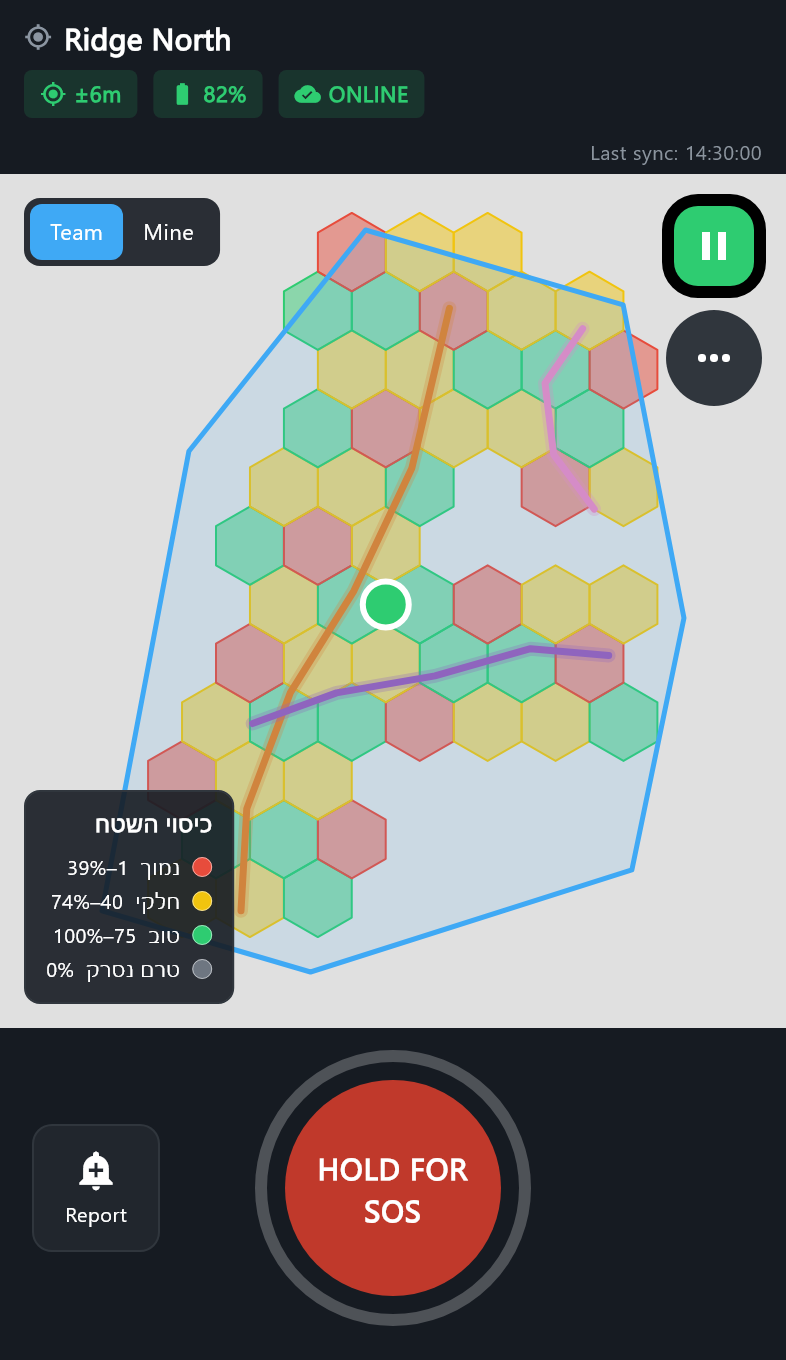
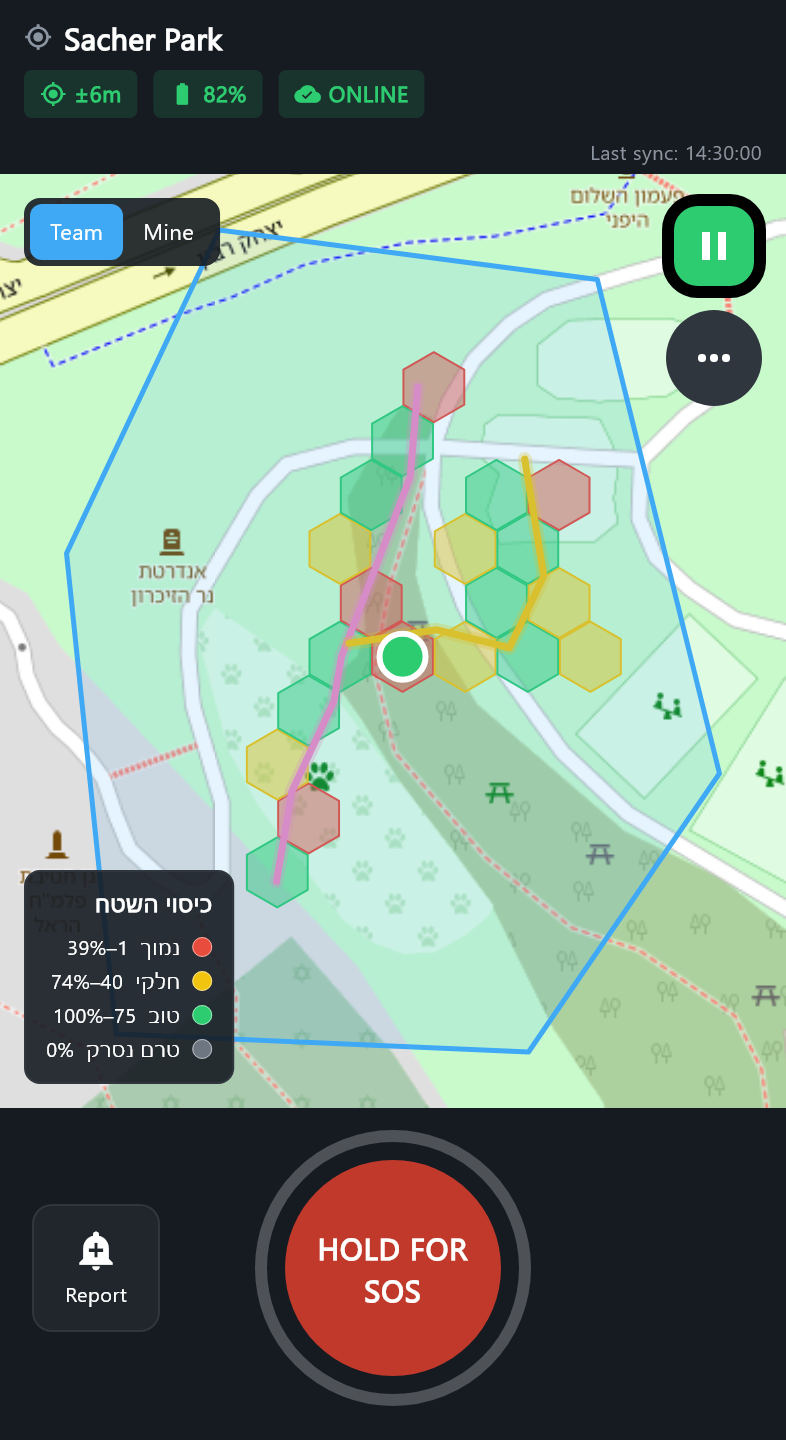
Show real OpenStreetMap tiles in field screenshots

diff --git a/README.md b/README.md
@@ -7,12 +7,12 @@ FindResQ brings field volunteers and search coordinators onto the same map. Volu
 ## In the field
 
 <p>
-  <img src="docs/screenshots/field-map.png" width="224" alt="FindResQ field map showing a sector boundary, team tracks, colored coverage cells, GPS accuracy, battery and sync status">
-  <img src="docs/screenshots/quick-report.png" width="224" alt="Quick report menu with options for subject found, medical, item found, hazard and no passage">
-  <img src="docs/screenshots/sos-active.png" width="224" alt="Field map after an SOS is accepted, showing SOS ACTIVE and the Manage button">
+  <a href="docs/screenshots/field-map.png"><img src="docs/screenshots/field-map.png" width="260" alt="FindResQ field map of Sacher Park in Jerusalem with real paths and landmarks beneath the sector boundary, team tracks and coverage cells"></a>
+  <a href="docs/screenshots/quick-report.png"><img src="docs/screenshots/quick-report.png" width="260" alt="Quick report menu over the Sacher Park map, with options for subject found, medical, item found, hazard and no passage"></a>
+  <a href="docs/screenshots/sos-active.png"><img src="docs/screenshots/sos-active.png" width="260" alt="Sacher Park field map with a simulated active SOS and the Manage button"></a>
 </p>
 
-From left to right: the team coverage map, the quick-report menu, and an active SOS. These screens were rendered from the Flutter app with simulated incident data and the base map tiles disabled.
+Team coverage, quick reporting, and an active SOS in a simulated search at Sacher Park, Jerusalem. Select any screenshot to view it full size. Base map © [OpenStreetMap contributors](https://www.openstreetmap.org/copyright).
 
 ## How it works
 
